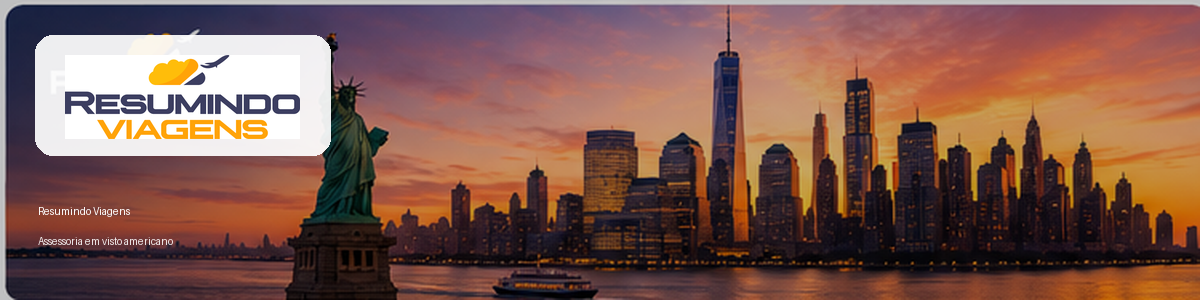
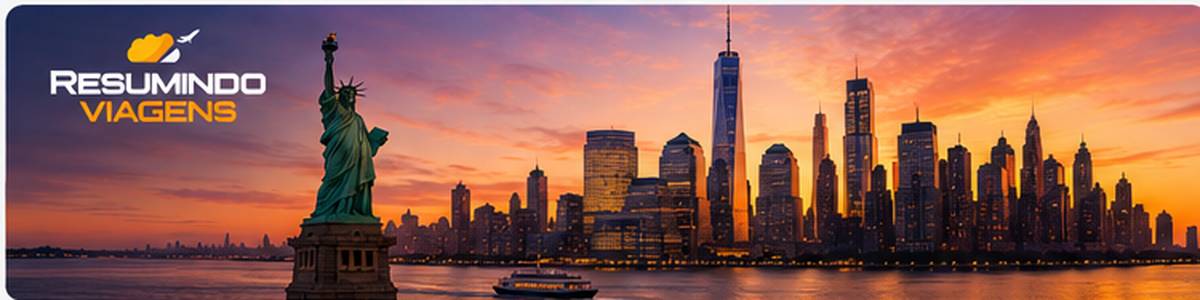
v34visual

diff --git a/app/globals.css b/app/globals.css
@@ -798,3 +798,88 @@ button:disabled {
 .report-modal table th {
   color: #1f2a60;
 }
+
+
+/* V34 visual premium — admin, formulário e emails */
+.rv-premium-shell,
+.admin-premium-page,
+.client-form-premium {
+  position: relative;
+}
+
+.rv-premium-shell::before,
+.admin-premium-page::before,
+.client-form-premium::before {
+  content: "";
+  position: fixed;
+  inset: 0;
+  z-index: -2;
+  background:
+    radial-gradient(circle at top left, rgba(255,159,0,.16), transparent 34%),
+    radial-gradient(circle at bottom right, rgba(37,42,85,.14), transparent 35%),
+    linear-gradient(135deg, #f8fafc, #eef2ff);
+}
+
+.rv-premium-shell::after,
+.admin-premium-page::after,
+.client-form-premium::after {
+  content: "";
+  position: fixed;
+  inset: 0;
+  z-index: -1;
+  pointer-events: none;
+  opacity: .08;
+  background-image: url("/branding/login-nova-york-bg.png");
+  background-size: cover;
+  background-position: center;
+}
+
+.premium-header-card {
+  background:
+    linear-gradient(135deg, rgba(255,255,255,.94), rgba(255,255,255,.86)),
+    linear-gradient(90deg, rgba(31,42,96,.08), rgba(255,159,0,.10));
+  border: 1px solid rgba(226,232,240,.95);
+  box-shadow: 0 18px 45px rgba(15,23,42,.08);
+}
+
+.brand-header-enhanced {
+  min-width: 0;
+}
+
+.brand-header-enhanced > img {
+  flex: 0 0 auto;
+}
+
+.brand-social-link {
+  text-decoration: none !important;
+}
+
+.version-badge {
+  display: inline-flex;
+  align-items: center;
+  border-radius: 999px;
+  padding: 8px 14px;
+  background: #eef2ff;
+  color: var(--navy);
+  border: 1px solid #c7d2fe;
+  font-weight: 900;
+}
+
+.email-theme-preview {
+  border-radius: 18px;
+  overflow: hidden;
+  border: 1px solid var(--border);
+  background: #fff;
+}
+
+@media (max-width: 900px) {
+  .premium-header-card .brand-header {
+    flex-direction: column;
+    align-items: flex-start;
+  }
+
+  .brand-client {
+    text-align: left;
+    min-width: 0;
+  }
+}

diff --git a/app/acesso/[token]/page.js b/app/acesso/[token]/page.js
@@ -165,8 +165,8 @@ export default function ClientAccessPage() {
   const section = current >= 0 ? sections[current] : null;
   const progress = calculateProgress(answers);
   return (
-    <main style={{ maxWidth: 1200, margin:"0 auto", padding:24 }}>
-      <div className="card" style={{ padding:22, marginBottom:22 }}><BrandHeader clientName={client?.name} /></div>
+    <main className="client-form-premium" style={{ maxWidth: 1200, margin:"0 auto", padding:24 }}>
+      <div className="card premium-header-card" style={{ padding:22, marginBottom:22 }}><BrandHeader clientName={client?.name} /></div>
       <div className="no-print" style={{ display:"flex", justifyContent:"space-between", gap:16, alignItems:"center", marginBottom:20 }}>
         <div><small>{saveStatus}</small></div>
         <div style={{ display:"flex", gap:10 }}><button className="btn-light" onClick={() => save(answers, true)}>Salvar e continuar depois</button><button className="btn-primary" onClick={submitForm}>Enviar definitivamente (encerra preenchimento)</button></div>

diff --git a/app/admin/page.js b/app/admin/page.js
@@ -933,13 +933,13 @@ function Dashboard({ logout }) {
   }
 
   return (
-    <main style={{ maxWidth: 1280, margin: "0 auto", padding: 24 }}>
-      <div className="card" style={{ padding: 22, marginBottom: 22 }}>
+    <main className="admin-premium-page" style={{ maxWidth: 1280, margin: "0 auto", padding: 24 }}>
+      <div className="card premium-header-card" style={{ padding: 22, marginBottom: 22 }}>
         <BrandHeader />
         <div style={{display:"flex",justifyContent:"space-between",gap:12,alignItems:"center",flexWrap:"wrap"}}><div className="version-badge">v34 consolidada</div><button className="btn-secondary" onClick={logout}>Sair</button></div>
       </div>
 
-      <div className="card" style={{ padding: 22, marginBottom: 22 }}>
+      <div className="card premium-header-card" style={{ padding: 22, marginBottom: 22 }}>
         <h2>Cadastrar cliente</h2>
 
         <div className="grid">

diff --git a/lib/emailTemplates.js b/lib/emailTemplates.js
@@ -71,9 +71,8 @@ function emailTheme(templateId) {
 }
 
 function emailHeaderUrl(theme = "nova-york") {
-  const base = process.env.NEXT_PUBLIC_SITE_URL || "";
+  const base = process.env.NEXT_PUBLIC_SITE_URL || "https://app.resumindoviagens.com.br";
   const file = theme === "orlando" ? "header-orlando.png" : "header-nova-york.png";
-  if (!base) return `/email-headers/${file}`;
   return `${base.replace(/\/$/, "")}/email-headers/${file}`;
 }
 

diff --git a/app/api/admin/supabase-session/route.js b/app/api/admin/supabase-session/route.js
@@ -1,5 +1,5 @@
-import { supabaseAdmin } from "../../../../../lib/supabaseAdmin";
-import { setAdminSession } from "../../../../../lib/auth";
+import { supabaseAdmin } from "../../../../lib/supabaseAdmin";
+import { setAdminSession } from "../../../../lib/auth";
 
 function isAllowedAdminEmail(email) {
   const allowed = (process.env.NEXT_PUBLIC_ADMIN_EMAILS || process.env.ADMIN_EMAILS || "")

diff --git a/INSTRUCOES_V34_VISUAL_APLICADO.md b/INSTRUCOES_V34_VISUAL_APLICADO.md
@@ -1,0 +1,26 @@
+# V34 Consolidada — Visual aplicado
+
+## Incluído/corrigido
+
+- Corrigido caminho da rota `supabase-session`.
+- Admin recebeu fundo visual premium discreto.
+- Formulário do cliente recebeu fundo visual premium discreto.
+- Cabeçalho principal ganhou card premium.
+- Emails agora usam cabeçalhos temáticos por template:
+  - Emails 01 a 05: Nova York
+  - Emails 06 a 10: Orlando
+- Os cabeçalhos dos emails usam URL absoluta com `NEXT_PUBLIC_SITE_URL`.
+- Se `NEXT_PUBLIC_SITE_URL` não existir, usa `https://app.resumindoviagens.com.br`.
+
+## Testar
+
+1. Login no admin.
+2. Carregamento dos clientes.
+3. Gerar email modelo e conferir cabeçalho.
+4. Enviar email automático e conferir cabeçalho no Gmail.
+5. Abrir link de formulário do cliente.
+6. Conferir visual do formulário no desktop.
+
+## Próxima etapa
+
+V35 — formulário mobile-first.
